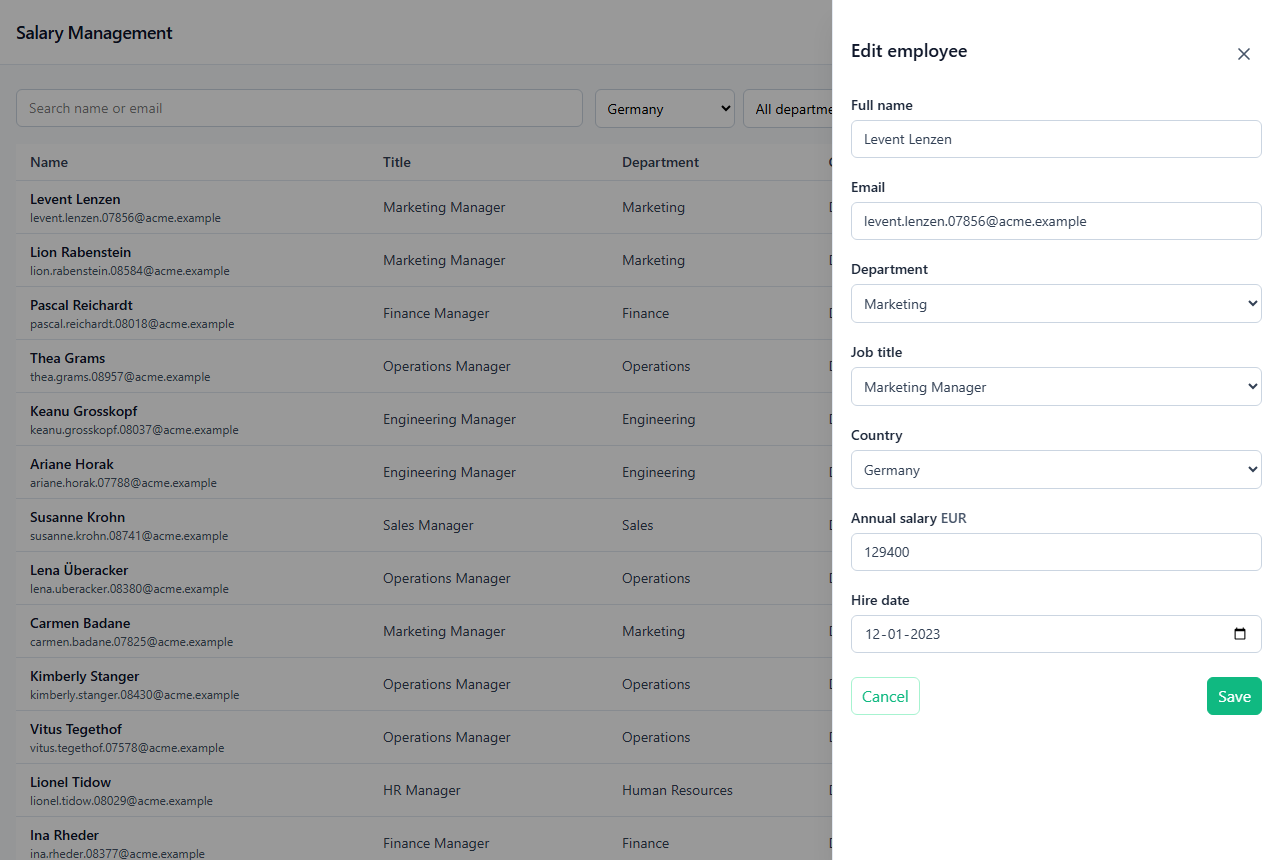
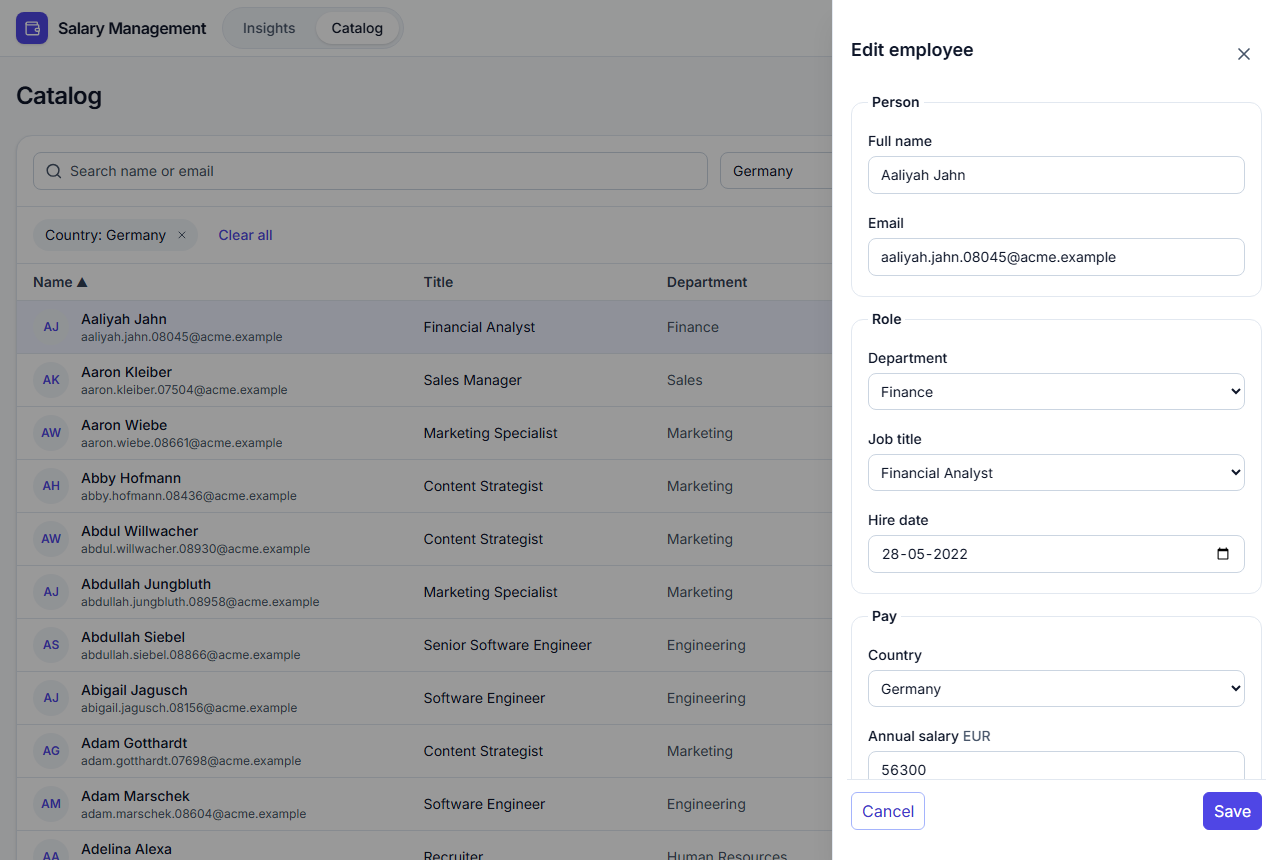
docs: UI_DESIGN, README screenshots, changelog and AI usage for the redesign (tasks 8.8-8.12)

diff --git a/docs/UI_DESIGN.md b/docs/UI_DESIGN.md
@@ -1,16 +1,37 @@
 # UI Design
 
-Screens, user flows and states for v1, designed in task 2.5. The decisions are in ADR-027 to ADR-029.
+Screens, user flows and states for v1, designed in task 2.5 (ADR-027 to ADR-029) and redesigned in
+tasks 8.8–8.12 (ADR-054, ADR-055). The behaviour rules below are those of 2.5 unless marked otherwise.
 This is the source for phase 7: the API calls refer to [`openapi.yaml`](openapi.yaml), and the
 structure to [`ARCHITECTURE.md`](ARCHITECTURE.md).
+
+## Look
+
+- **Palette:** a PrimeNG preset over Aura with indigo for primary (600 in light, 400 in dark) and slate
+  for surfaces. The app's own colour tokens (`canvas`, `card`, `subtle`, `line`, `line-strong`, `ink`,
+  `ink-muted`, `danger`, `danger-soft`, `danger-line`, `warn`, `warn-soft`, `warn-line`, `success`,
+  `selected`) live in `styles.css` and switch with the theme. Templates use these and PrimeNG's `primary`
+  and `primary-contrast`, never raw palette classes (ADR-054).
+- **Theme:** System, Light or Dark from a toggle in the top bar, remembered per browser. An inline
+  script in `index.html` applies it before Angular starts, so a dark page never flashes white.
+- **Type:** Inter, self-hosted, with tabular figures for amounts and for counts that line up.
+- **Motion:** 150–250 ms CSS transitions, the drawer slide and skeletons; the Insights bars grow in once
+  over 600 ms. All of it is off under `prefers-reduced-motion`.
+- **Accessibility:** axe (WCAG 2.1 AA, contrast included) checks Insights, the Catalog (filtered, and with the drawer in view mode) and Settings, in both themes, at desktop and phone width, in the
+  End-to-end job. The add and edit form, the delete dialog and the empty and error states are not
+  scanned.
 
 ## Navigation and routes
 
 ```
 +-----------------------------------------------------------------+
-| Salary Management        [Insights]   Catalog            ⚙      |
+| [◆] Salary Management   (Insights) Catalog               ⚙  ◐  |
 +-----------------------------------------------------------------+
+| Page title                                     [page actions]   |   <- sticky from 640 px
 ```
+
+Phones keep the brand and the theme toggle in the top bar and move the links to bottom tabs:
+`[Insights] [Catalog] [Settings]`. The ☰ menu of ADR-052 is gone (ADR-054).
 
 | Route | Screen | Notes |
 |---|---|---|
@@ -29,58 +50,39 @@ structure to [`ARCHITECTURE.md`](ARCHITECTURE.md).
 
 ### Insights dashboard (`/`)
 
-Desktop:
+Desktop (≥ 1024 px, four columns):
 ```
 +-----------------------------------------------------------------+
-| Salary Management        [Insights]   Catalog            ⚙      |
-+-----------------------------------------------------------------+
-| Country [India (INR)       v]                                   |
-|                                                                 |
-| +-----------+ +-----------+ +-----------+ +---------+ +--------+|
-| | Headcount | | Median    | | Average   | | Min     | | Max    ||
-| |   2,000   | | INR       | | INR       | | INR     | | INR    ||
-| |           | |1,890,000.00| |2,150,000.37| |410,000.00| |9,800,000.00||
-| +-----------+ +-----------+ +-----------+ +---------+ +--------+|
-|                                                                 |
-| Average salary by job title (INR)        | Headcount by dept    |
-| Engineering Manager  ████████████ 5,8..  |     .---.            |
-|                     Engineering · 40     |   /  2,000 \  ■ Eng  |
-| Senior Software Eng. █████████  4,1..    |   \  total /    640 32%|
-|                     Engineering · 180    |     '---'     ■ Sales|
-| Software Engineer    ██████     2,4..    |                410 21%|
-| ...                                      |   ...                |
+| Insights                               Country [India (INR)  v] |
+| +---------------------------+ +-------------+ +-------------+   |
+| | Median salary             | | Headcount   | | Average     |   |
+| | INR 1,108,000.00          | | 3,500       | | INR 1,526,… |   |
+| |                           | +-------------+ +-------------+   |
+| | Half of the 3,500 employ- | | Min         | | Max         |   |
+| | ees in India earn this or | | INR 400,0…  | | INR 4,995,… |   |
+| | less, and half this or …  | +-------------+ +-------------+   |
+| +---------------------------+                                   |
+| +---------------------------+ +-------------------------------+ |
+| | Average salary by title   | | Headcount by department       | |
+| | Operations Manager  INR … | |   (doughnut)  ● Eng 1,500 43% | |
+| | Operations · 86           | |               ● Sales 656 19% | |
+| | ███████████████           | |                               | |
+| +---------------------------+ +-------------------------------+ |
 +-----------------------------------------------------------------+
 ```
 
-Phone (stacked):
-```
-+---------------------------+
-| Salary Mgmt          ☰    |
-+---------------------------+
-| [India (INR)          v]  |
-| +----------+ +----------+ |
-| |Headcount | | Median   | |
-| |  2,000   | |INR 1.89M…| |
-| +----------+ +----------+ |
-| +----------+ +----------+ |
-| | Average  | | Min/Max  | |
-| +----------+ +----------+ |
-| Headcount by department   |
-|        (doughnut)         |
-|  ■ Engineering  640  32%  |
-| Avg salary by job title   |
-| Eng. Manager ████ 5.8M…   |
-+---------------------------+
-```
+From 768 px it is two columns (the median and the breakdowns span both); below that, one column. The
+wireframe truncates amounts for space; the screen shows them in full.
 
-- **Stat cards** show headcount, median, average, min and max. Money is shown in full (see Formatting);
-  on narrow cards, long values wrap rather than abbreviate.
-- **Average by job title** is a table with inline CSS bars (no chart library). Each row has the title,
-  a bar scaled to the highest average, the exact amount, and the department and headcount as a second
-  line. Sorted by average, highest first (ADR-017).
-- **Headcount by department** is a Chart.js doughnut (ADR-029). The total is in the centre, and the
-  legend lists each department with count and percentage, because angles are hard to compare. Sorted
-  by headcount, highest first.
+- **A bento grid.** The median leads in an indigo tile with a plain-words note; headcount, average, min
+  and max sit beside it; the two breakdowns run below.
+- **Money is shown in full, on one line**, in every tile. Container queries step the type down instead of
+  wrapping, sized so the API's longest amount (`999,999,999,999.99`) fits; tested at 390, 768, 1024
+  and 1280 px.
+- **Average by job title** is a table with CSS bars (ADR-029): title and department · headcount on the
+  left, the amount beside them, the bar below. Sorted by average, highest first (ADR-017).
+- **Headcount by department** is a Chart.js doughnut (ADR-029) with the total in the centre and a legend
+  of count and share. Its colours follow the theme (600s on white, 400s on slate-900, each at least 3:1).
 - Changing the country updates `?country=` only. It does **not** change the saved default.
 
 ### Catalog (`/catalog`)
@@ -88,42 +90,30 @@ Phone (stacked):
 Desktop:
 ```
 +---------------------------------------------------------------------------+
-| Salary Management        Insights   [Catalog]                       ⚙     |
-+---------------------------------------------------------------------------+
-| [Search name or email___________] [Country v] [Department v] [Title v]    |
-|                                                       [+ Add employee]    |
-|---------------------------------------------------------------------------|
-| Name ▲              Title            Dept         Ctry  Salary      Hired  |
-| Asha Rao            Software Eng.    Engineering  IN    INR 2,400,000.00  2021-04-12 |
-| asha.rao@acme.com                                                         |
-| Ben Ode             QA Engineer      Engineering  GB    GBP 48,000.00     2019-11-02 |
-| ben.ode@acme.com                                                          |
-| ...                                                                       |
-|---------------------------------------------------------------------------|
-| 1–20 of 10,000                         [<] 1 2 3 … 500 [>]  [20 v]/page   |
+| Catalog                                               [+ Add employee]    |
+| +-----------------------------------------------------------------------+ |
+| | [Search name or email______] [Country v] [Department v] [Title v]     | |
+| | (Country: India x) (Department: Engineering x)  Clear all             | |
+| |-----------------------------------------------------------------------| |
+| | Name ▲                  Title           Dept   Ctry  Salary    Hired  | |
+| | (AR) Asha Rao           Software Eng.   Eng.   IN    INR 2,400… 2021… | |
+| |      asha.rao@acme.example                                            | |
+| |-----------------------------------------------------------------------| |
+| | 1–20 of 1,500                      [<] 1 2 3 … 75 [>]   [20 v]/page   | |
+| +-----------------------------------------------------------------------+ |
 +---------------------------------------------------------------------------+
 ```
 
-Phone (rows become cards):
-```
-+---------------------------+
-| Salary Mgmt          ☰    |
-+---------------------------+
-| [Search name or email___] |
-| [Filters (2) v] [Sort v]  |
-| [+ Add employee]          |
-| +-----------------------+ |
-| | Asha Rao              | |
-| | Software Eng. · IN    | |
-| | INR 2,400,000.00      | |
-| +-----------------------+ |
-| +-----------------------+ |
-| | Ben Ode  ...          | |
-| +-----------------------+ |
-| [<]   Page 1 of 500   [>] |
-+---------------------------+
-```
+Phone: the same card with search, `[Filters (2)] [Sort v]`, the chips, then rows as avatar cards
+(name, title · country, salary). The page header keeps Add employee.
 
+- **Active filters show as chips** (ADR-054), each with a named remove button. Removing a chip clears only
+  that filter; **Clear all**, and the empty state's **Clear filters**, clear country, department and job
+  title and keep the search, sort and page size (task 8.10). Focus moves to the next chip, else the
+  previous one; after Clear all, to the search box. With only a search and no matches, the empty state offers **Clear search** instead.
+- **Rows and cards have initials avatars** (first and last name), hidden from screen readers.
+- **The employee open in the drawer is marked:** `aria-current="true"` and a highlighted row.
+- The column header does not stick (ADR-055); the page header does, from 640 px.
 - **Search** is debounced (300 ms) and only sent at 2+ characters (ADR-016). One character shows the
   hint "Type at least 2 characters" and keeps the previous results.
 - **Filters** have one value each. Picking a department narrows the title dropdown to that
@@ -141,21 +131,29 @@ Phone (rows become cards):
 ### Employee drawer (`/catalog/:id`, `/catalog/new`, `/catalog/:id/edit`)
 
 ```
-+----------------------------+          +----------------------------+
-| Asha Rao                 x |          | Edit employee            x |
-| asha.rao@acme.com          |          | Full name  [Asha Rao_____] |
-|                            |          | Email      [asha.rao@ac..] |
-| Software Engineer          |          | Department [Engineering v] |
-| Engineering · India        |          | Job title  [Software En v] |
-|                            |          | Country    [India       v] |
-| INR 2,400,000.00           |          | Salary INR [2400000.00___] |
-| Hired 2021-04-12           |          | Hire date  [2021-04-12 📅] |
-|                            |          |                            |
-| [Edit]          [Delete]   |          | [Cancel]           [Save]  |
-+----------------------------+          +----------------------------+
-          view                                 edit / add
++------------------------------+          +------------------------------+
+|                            x |          | Edit employee              x |
+| (AR) Asha Rao                |          | Person                       |
+|      asha.rao@acme.example ⧉ |          |   Full name [Asha Rao_____]  |
+|      [Engineering] · India   |          |   Email     [asha.rao@ac..]  |
+| +--------------------------+ |          | Role                         |
+| | Annual salary            | |          |   Department [Engineering v] |
+| | INR 2,400,000.00         | |          |   Job title  [Software En v] |
+| +--------------------------+ |          |   Hire date  [2021-04-12]    |
+| Title      Software Engineer |          | Pay                          |
+| Country          India · INR |          |   Country    [India       v] |
+| Hired  2021-04-12 · 5 yrs 6… |          |   Salary INR [2400000.00__]  |
+| [Edit]                       |          |------------------------------|
+| Delete employee     [Delete] |          | [Cancel]             [Save]  | <- stays in view
++------------------------------+          +------------------------------+
+          view                                   edit / add
 ```
 
+- **Tenure** counts whole years and months to today (UTC, injected clock); a month counts once its day is
+  reached. "Under a month" for a new hire.
+- **Copy email** writes to the clipboard, and a polite live region says "Email copied", or "Couldn't copy
+  the email".
+- **Delete sits in a danger area** at the bottom of view mode, apart from Edit (ADR-054).
 - The drawer opens on the right over the list, and the list keeps its filters and scroll. On phones
   it is full-screen.
 - **One form component for add and edit.** Add starts empty at `/catalog/new`.
@@ -194,9 +192,12 @@ it). There is no undo, because restore is not exposed (ADR-011).
 ```
 +---------------------------------------------+
 | Settings                                    |
-| Default country for Insights                |
-| [India (INR)                v]   [Save]     |
-| Currency follows the country.               |
+| +-----------------------------------------+ |
+| | Default country                         | |
+| | Insights opens on this country.         | |
+| | [India (INR)                v]   [Save] | |
+| | Currency follows the country: INR       | |
+| +-----------------------------------------+ |
 +---------------------------------------------+
 ```
 
@@ -279,13 +280,15 @@ flowchart LR
 
 ## States
 
-Every data view handles each state (`CLAUDE.md`). The cold-start banner applies app-wide, on top of
-whichever state is showing.
+Every data view handles each state (`CLAUDE.md`). The shared empty and error panels (Catalog,
+Insights and Settings errors) lead with a decorative icon; the Insights empty state and the drawer's
+not-found panel do not.
+The cold-start banner applies app-wide, on top of whichever state is showing.
 
 | View | Loading | Empty | Error |
 |---|---|---|---|
 | Insights | Skeleton cards and bars | "No employees in {country} yet", with a link to the Catalog | "Couldn't load insights" + Retry |
-| Catalog list | Skeleton rows; existing rows dim while a new page loads | No employees at all: "No employees yet" + Add. No matches: "No one matches these filters" + Clear filters | "Couldn't load employees" + Retry |
+| Catalog list | Skeleton rows; existing rows dim while a new page loads | No employees at all: "No employees yet" + Add. No matches: "No one matches these filters" + Clear filters, or with only a search, "No one matches this search" + Clear search | "Couldn't load employees" + Retry |
 | Drawer view | Skeleton | — | 404: "This employee no longer exists" + Close |
 | Drawer form | Save button spinner; inputs locked | — | Field errors; 409 banners (stale, duplicate email); other errors as a toast, with edits kept |
 | Settings | Skeleton dropdown | — | "Couldn't load settings" + Retry |
@@ -303,6 +306,7 @@ whichever state is showing.
 
 | Width | Layout |
 |---|---|
-| ≥ 1024 px | As drawn: full table, drawer about 420 px on the right, dashboard in two columns |
-| 640–1023 px | The table drops the department and hire date columns (they stay in the drawer); the drawer is wider; the dashboard is one column |
-| < 640 px | Cards instead of table rows, filters in a panel, a full-screen drawer, stacked cards, and a ☰ menu for the top bar |
+| ≥ 1024 px | Bento Insights in four columns; the full Catalog table; the drawer about 448 px on the right |
+| 768–1023 px | Insights in two columns; the table drops the department and hire date columns (they stay in the drawer); a wider drawer |
+| 640–767 px | As above, with Insights in one column |
+| < 640 px | Insights in one column; avatar cards instead of table rows, filters in a panel; a full-screen drawer; bottom tabs instead of top-bar links |

diff --git a/docs/AI_USAGE.md b/docs/AI_USAGE.md
@@ -37,7 +37,7 @@ The same few mistakes recur, which is the useful finding. Each links to cases in
 | **Ignoring a standing instruction** | Batched questions after "ask me one by one" (1.11, and again in 7); five slices in one session against the one-slice rule (2.1–2.5); the prompt log it had mandated, skipped for eight slices (1.x) | The engineer, each time |
 | **Placeholders and commands that break when pasted** | `<SM_PGHOST>` pasted into `DB_URL` (1.7); `<stage-host>` run literally in psql (6.4) | The engineer's failed run |
 | **What only a real browser shows** | No icon rendered anywhere, from phase 1 to phase 7, because PrimeIcons was never installed; unit tests in jsdom passed throughout | Screenshots taken by the AI at the end of phase 7 |
-| **Checking the wrong thing** | Stage "deployed" judged by a health check an old build also passes (1.11–3.3); proposed evidence for a production change taken from stage (1.12) | The engineer's "check again"; the reviewer |
+| **Checking the wrong thing** | Stage "deployed" judged by a health check an old build also passes (1.11–3.3); proposed evidence for a production change taken from stage (1.12); seeding advice based on a stale local `main` (deploy) | The engineer's "check again"; the reviewer |
 
 ### Where the engineer chose differently
 
@@ -57,13 +57,18 @@ The AI recommended; the engineer decided. The records say so wherever the engine
 | Job titles | Independent of department (changed after pushback) | Dependent on department | ADR-008 |
 | Promotion cadence | Per slice | Once per phase | ADR-030 |
 | Phase 3 in one session | All six slices | One slice | 3.2 row |
+| Redesign scope | A visual reskin on the current layouts | A full redesign | ADR-054 |
+| App shell | A left sidebar | A refined top bar | ADR-054 |
+| Dark mode | Light only | Follow the OS, with a toggle | ADR-054 |
+| Insights layout | A median hero with a range strip | A bento grid | ADR-054 |
 
 ### Prompts
 
 Every slice's prompt, decisions, approved test list and outcome are in [`prompts/`](prompts/):
 requirement analysis (`0.0`), environment (`1.1`–`1.12`), design (`2.1`–`2.5`), employee CRUD
 (`3.0`–`3.7`), finding employees (`4.1`–`4.5`), insights (`5.1`–`5.6`), seeding (`6.1`–`6.4`),
-frontend (`7.1`–`7.8`, with the combined test list in `7.1`), docs and submission (`8.1`), and two
+frontend (`7.1`–`7.8`, with the combined test list in `7.1`), docs and submission (`8.1`), the UI
+redesign (`8.8`–`8.12`), and two
 process changes (`process-stage-branch`, `process-workflow-check`).
 
 ## Tools
@@ -80,6 +85,8 @@ Newest first. One entry per notable AI interaction. Prompts are saved verbatim i
 
 | Date | Task | What AI did | What I changed / caught | Why |
 |---|---|---|---|---|
+| 2026-11-13 | 8.8–8.12 | Used the ui-ux-pro-max skill for a starting direction, asked fourteen redesign decisions one at a time (ADR-054) and one more during the work (ADR-055), then built five slices test-first with the reviewer on every test and implementation step; checked the look with its own screenshots in both themes | **The engineer chose a full redesign, a top bar, dark mode with a toggle and a bento grid over the AI's recommendations, and then asked for all five slices in one session.** The reviewer confirmed committed backspace bytes in an axe regex (the dark check could never pass), and caught a theme service that would blank the app with blocked site data, a long-amount test using 13 digits the API cannot return, a median sentence that was false when salaries tie, a job-title table quietly turned into a list against ADR-029, and focus lost when a filter chip disappeared. **The AI also made four commits (all of 8.8) on local `main` because the engineer had switched branches for seeding;** caught before any push and moved to `stage` | Visual work still needs behaviour tests, axe and a real look in a browser; and check the branch before committing |
+| 2026-11-13 | deploy | Diagnosed a production Render deploy: a non-JDBC `DB_URL`, then a rejected Neon password, then an unseeded database; gave seeding steps | **Told the engineer to seed from `main` after checking only the local branch, which was stale;** the run seeded nothing. Corrected after the engineer pasted the deploy log showing `origin/main` was current | Check the remote, not the local copy, before claiming what a branch contains |
 | 2026-10-26 | 7.1–7.8 | Sent all thirteen phase 7 decisions in one message, was told "Ask me one by one", then asked them singly (ADR-051, all on the AI's recommendation); wrote all eight test lists for one batch approval; built 7.1→7.8 test-first with the reviewer at each step, then ran the Playwright paths locally and took screenshots at desktop and phone width | **The engineer had to correct the AI's batching despite a saved instruction to ask one at a time**; the memory now says "ask all questions" still means one by one. The reviewer caught tests that wrong code would pass (fixtures whose order matched a sort, a test reloading a country absent from the fixture) and real bugs (the add form submitting empty fields while reference data loaded, a stale refresh flag, a double toast). **Screenshots, not tests, showed that no icon rendered**: PrimeIcons was never installed, since phase 1 | Unit tests in jsdom cannot see what a user sees: a page needs one look in a real browser before it ships |
 | 2026-10-26 | 6.4 | Gave the engineer the steps to seed stage and capture its list plans from their own shell (ADR-049: the AI has no Neon credentials); recorded the stage seed time (3.9 s) and the stage plans in `docs/PERFORMANCE.md`; asked whether to reset the Neon stage branch at each promotion, which became ADR-050 (never reset) | **The AI's psql command kept `<stage-host>` placeholders, which the engineer ran literally;** the AI then gave a command with the real host taken from the seed log and the password kept in `PGPASSWORD`. The AI's own script edit to the plans table dropped the local timing column; it caught that in its own diff review and rewrote the rows before committing. The AI also asked the engineer to confirm that the endpoint in the seed log belonged to stage, not production, before pushing | A command the engineer will paste is complete or has its placeholders called out; review your own diff before committing, even for docs |
 | 2026-10-26 | 6.1–6.4 | At the engineer's request, asked all twelve phase 6 questions up front in three batches rather than one by one (ADR-049); built the generator, the idempotent seeder and the `seed` profile test-first (24 tests); measured the seed at 2.0–2.2 s locally; wrote a read-only psql plan script and found that deep pages switch to a full scan plus sort on tie-heavy seeded data | **Chose Datafaker over the AI's recommendation of hand-written name lists;** the AI pinned the version and added a golden test so an upgrade cannot silently change the seed. The reviewer found the id-collision test could pass with the wrong id block (`V..V+49`), so a range assertion was added, and noted an unguarded race (a first API create during the seed of an empty database), now documented | An id scheme that is safe only against one optimizer's semantics needs a test that checks the scheme itself, not one that waits for a collision |
@@ -130,6 +137,12 @@ was supervised.
 - **Offered two technically wrong options in 2.2 and only caught them after they were answered.**
   `percentile_cont` computes in double precision, and Postgres `round()` is not HALF_EVEN. Both were
   corrected in ADR-017 before any code was written, but they should have been checked before being offered.
+- **Committed to the wrong branch (8.8).** Four commits landed on local `main` after the engineer had
+  checked it out to seed production; caught before any push and moved to `stage` by fast-forward.
+- **Committed a test that could not fail (8.8).** A script wrote backspace bytes where `\b` was meant
+  in the axe helper's regex; the reviewer confirmed it and a `fix:` commit restored it.
+- **Wrote a false sentence into a test (8.9).** "Half … earn less than this" is untrue when
+  salaries tie at the median; the reviewer caught it before it shipped.
 - **Broke a deploy with its own placeholder convention.** The setup guide wrote
   `<SM_PGHOST>`; the angle brackets were pasted into `DB_URL` and Render failed with
   `UnknownHostException` on a bracketed hostname.

diff --git a/CHANGELOG.md b/CHANGELOG.md
@@ -17,6 +17,16 @@ One entry per completed phase of [`TASKS.md`](TASKS.md), newest first. Format ba
 - `SMOKE-TEST.md`: the live smoke test (read-only checks passed at desktop and phone width).
 - A demo video script and a reply email draft, for the engineer to record and send.
 
+### Changed
+- A UI redesign in five test-first slices, 8.8 to 8.12 (ADR-054, ADR-055): an indigo and slate theme
+  over Aura with Inter, light and dark modes from a System/Light/Dark toggle that never flashes white, a
+  refined top bar with bottom tabs on phones, a bento Insights with full amounts on one line and a
+  themed doughnut, the Catalog in one card with filter chips and avatars, and a drawer with a profile
+  header, tenure, a grouped form and Delete in a danger area.
+- Clear filters now keeps the search, sort and page size, matching the new Clear all; a search with no
+  matches offers Clear search.
+- axe accessibility checks (WCAG 2.1 AA) on Insights, the Catalog (filtered, and with the drawer in view mode) and Settings, in both themes, at desktop and phone width, in the End-to-end job.
+
 ## Phase 7 — Frontend features (2026-10-26)
 
 ### Added

diff --git a/docs/prompts/8.12-ui-settings-states-docs.md b/docs/prompts/8.12-ui-settings-states-docs.md
@@ -22,6 +22,16 @@ redesign.
 The docs are checked by reading them against the code, as in 8.1–8.3. The axe checks of 8.8 cover
 Settings in both modes.
 
+## Notes
+
+- Docs review: the reviewer checked every claim against the code and found overclaims, all fixed: the
+  Insights breakpoint is 768 px, not 640; axe covers four scenes, not every screen; two empty or error
+  panels have no icon; the bars take 600 ms; and the AI_USAGE counts and filing. The first Insights
+  screenshot showed salaries edited by E2E runs, so the local database was reset, re-seeded and the
+  shot retaken before any test ran.
+
 ## Outcome
 
-_Pending._
+Settings as a card with what the setting does, icons on the shared empty and error panels,
+`UI_DESIGN.md` brought up to the redesign, README screenshots retaken, CHANGELOG and AI_USAGE updated.
+197 unit tests and 33 Playwright checks green; initial bundle 648.6 kB (149.3 kB gzipped).

diff --git a/README.md b/README.md
@@ -32,6 +32,7 @@ answers in about 114 ms and a country's insights in about 79 ms, measured from I
 | Min, max, average and median per country; average by job title; headcount by department | One call per country, every statistic aggregated in SQL, an exact median | ADR-017, ADR-022, ADR-047 |
 | Insights in under 1 second | 0.4–3 ms on the database server; 79 ms live, warm | [`PERFORMANCE.md`](docs/PERFORMANCE.md) |
 | Deterministic, idempotent seed of 10,000 employees, in under 10 seconds | A `seed` Spring profile; 2.0–4.2 s locally, on stage and in production | ADR-049 |
+| Readable in light and dark, on phones and desktops (added in the redesign) | A token-based theme with a System/Light/Dark toggle; checked at 390 px and up | axe on Insights, Catalog and Settings in both themes; ADR-054 |
 | Default country for Insights (added during design) | A backend setting, India until changed | ADR-028 |
 
 <p>

diff --git a/docs/prompts/8.8-ui-foundation.md b/docs/prompts/8.8-ui-foundation.md
@@ -7,8 +7,8 @@
 > Lets make the UI more aesthetic. Use UI UX pro max skill to revamp whole UI and push to stage and main
 
 The ui-ux-pro-max skill's design-system search (HR salary analytics dashboard) suggested a data-dense
-dashboard style, a deep blue primary with an amber accent, and tabular figures. Ten decisions were then
-asked one at a time and recorded in ADR-054, which also splits the redesign into 8.8–8.12.
+dashboard style, a deep blue primary with an amber accent, and tabular figures. Fourteen decisions were
+then asked one at a time and recorded in ADR-054, which also splits the redesign into 8.8–8.12.
 
 ## Test list (approved)
 

diff --git a/TASKS.md b/TASKS.md
@@ -138,5 +138,5 @@ can reach its database.
 - [x] **8.9** UI redesign, Insights: bento grid, money in full, the doughnut themed for both modes
 - [x] **8.10** UI redesign, Catalog: the table in a card, toolbar, active-filter chips, avatars, cards on phones
 - [x] **8.11** UI redesign, drawer: profile header, salary block, tenure, grouped form, danger area for Delete
-- [ ] **8.12** UI redesign, Settings and states; `UI_DESIGN.md` updated to the new screens; README screenshots
+- [x] **8.12** UI redesign, Settings and states; `UI_DESIGN.md` updated to the new screens; README screenshots
       retaken
